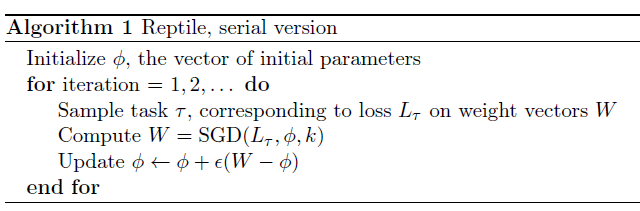
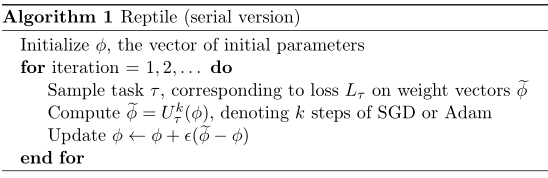
1

diff --git a/_posts/2020-07-14-MetaLearning-Reptile.md b/_posts/2020-07-14-MetaLearning-Reptile.md
@@ -64,9 +64,17 @@ $$
 \end{aligned}
 $$
 
-其中，${}^{k}_\tau \boldsymbol \theta$ 是在任务 $\tau$ 上经过 $k$ 次更新后的模型参数。
+其中，${}^{k}_\tau \boldsymbol \theta=U^k_\tau(\boldsymbol \theta)$ 是在任务 $\tau$ 上经过 $k$ 次更新后的模型参数。
 
-这里说的是 MAML 的目标，是因为截至 MAML 文章发表，人们还没有建立起元学习的框架概念，后来人们将 MAML 等寻找最优模型初始参数的方法称作 **基于优化的元学习问题**（Optimization-based Meta-Learning）的方法，上述数学描述也就称为整个问题的共同目标。。
+根据前面的 Reptile 算法，我们知道，Reptile 将 $\boldsymbol \theta - {}^{k}_\tau \boldsymbol \theta$ 等效为梯度，那么问题就转变为：
+
+$$
+\begin{aligned}
+\mathop{minimize}_{\phi} \; \mathbb E_{\tau}[L_{\tau}(^{k}_\tau\boldsymbol \theta)]
+= \mathop{minimize}_{\phi} \; \mathbb E_{\tau}[L_{\tau}(U^k_\tau(\boldsymbol \theta))]
+\end{aligned}
+$$
+
 
 ## 1.3. 有效性分析
 
